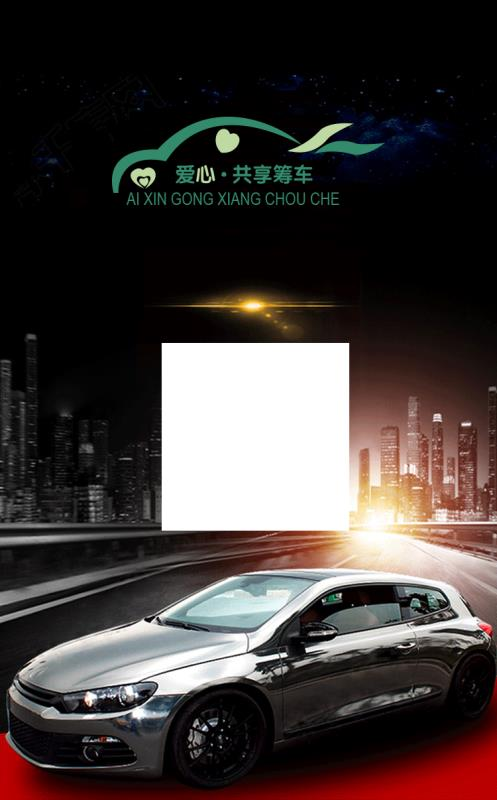
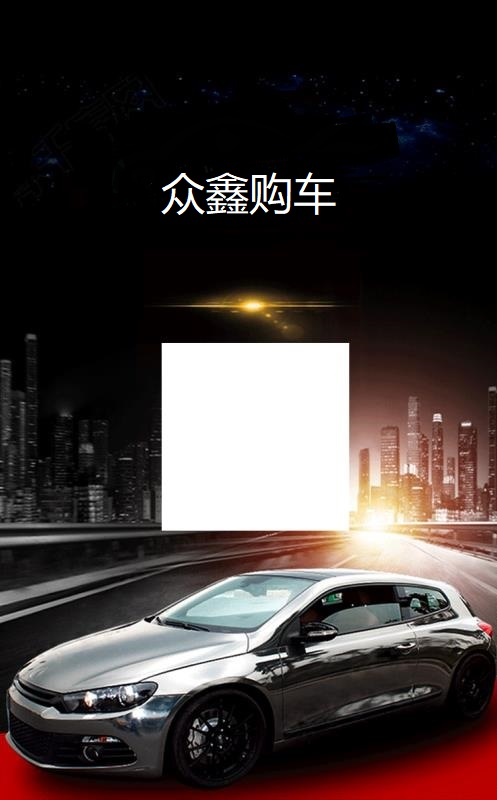
合并前端代码

Changed region(s): [[0.2113, 0.125, 0.8149, 0.2812]]

diff --git a/src/main/resources/file/carCollecting/webapp/js/loginAReg/register.js b/src/main/resources/file/carCollecting/webapp/js/loginAReg/register.js
@@ -50,11 +50,11 @@
 			$(".zc_btn").prop("disabled",false);
 			return false;
 		}
-		/*if(!code){
+		if(!code){
 			alert("请输入验证码");
 			$(".zc_btn").prop("disabled",false);
 			return false;
-		}*/
+		}
 		if(!password){
 			alert("请设置登录密码");
 			$(".zc_btn").prop("disabled",false);
@@ -104,7 +104,7 @@
 						    	 var regData={};
 									regData.phone=mobile1;
 									regData.userName=name;
-									regData.code=code;
+									regData.shortCode=code;
 									regData.parentId=rmobile;
 									regData.pwd=password;
 									console.log(url+"/user");
@@ -122,6 +122,9 @@
 													location.href="login.html?loginName="+mobile1;
 											}else{
 												Errfun1(result1.msg);
+												if(result1.code=='2'){
+													$(".code1").val("")
+												}
 											}
 										}
 									})		
@@ -139,20 +142,19 @@
 				 Errfun3();
 			}
 		})
-		//		注册
-	 if(flag){
-	 	
-	 }
-			
-	
-	
-	
-   //点击获取手机验证码
-	/*$(".sendSMS").on("click",function(){
+  })
+//点击获取手机验证码
+	$(".sendSMS").on("click",function(){
+		console.log(1)
 		$(".sendSMS").prop("disabled",true);
 		var mobile1=$(".mobile1").val();
 		var myreg=/^[1][3,4,5,6,7,8][0-9]{9}$/;
-		if(!myreg.test(mobile1)){
+		console.log(mobile1)
+		if(mobile1==''){
+			alert("请输入手机号");
+			$(".sendSMS").prop("disabled",false);
+			return false;
+		}else if(!myreg.test(mobile1)){
 			alert("请输入正确的手机号");
 			$(".sendSMS").prop("disabled",false);
 			return false;
@@ -160,12 +162,13 @@
 		//验证图形码的有效性
 		$.ajax({
 			type:"post",
-			url:url+"/api/index/sendCheckSMS",
-			data:{"mobile":mobile1},
+			url:url+"/sendSms",
+			data:{"phone":mobile1},
 			dataType:"JSON",
 			success:function(result){
 				$(".sendSMS").prop("disabled",false);
-				if(result.success == true){
+				console.log(result);
+				if(result.msg=='SUCCESS'){
 					var time = 60;
 	                var ttime=setInterval(function () {
 	                    time--;
@@ -183,6 +186,5 @@
 				}
 			}
 		});
-	})*/
-  })
+	})
 })

diff --git a/src/main/resources/file/carCollecting/webapp/html/administratorInfo/memberLineUp.html b/src/main/resources/file/carCollecting/webapp/html/administratorInfo/memberLineUp.html
@@ -4,8 +4,8 @@
   <meta charset="utf-8">
   <meta http-equiv="X-UA-Compatible" content="IE=edge">
   <title>会员排队</title>
-  <meta name="description" content="爱心共享筹车">
-  <meta name="keywords" content="共享筹车">
+  <meta name="description" content="众鑫购车">
+  <meta name="keywords" content="众鑫购车">
   <meta content="width=device-width, initial-scale=1.0, maximum-scale=1.0, user-scalable=0" name="viewport" />
   <meta name="renderer" content="webkit">
   <meta http-equiv="Cache-Control" content="no-siteapp" />
@@ -89,16 +89,6 @@
 		<div class="search_content">
 			 <span>手机号:</span>
 			 <input class="search_text" type="text" name="" id="searchText" value="" />
-			 <br/>
-			 <span>购车类型:</span>
-			 <select class="sel_list" id="selType">
-				<option value="0">请选择分类</option>
-				<option value="1">五进一10万车型</option>
-				<option value="2">五进一20万车型</option>
-				<option value="3">五进一30万车型</option>
-				<option value="4">五进一40万车型</option>
-				<option value="5">五进一50万车型</option>
-			</select>
 			 <button class="search_btn" id="searchBtn">查询</button>
 		</div>
 		<div class="car" style="margin-top: 20px;">
@@ -106,9 +96,9 @@
 				<thead>
 					<tr>
 						<th style="width:20%;">排位</th>
-						<th style="width:26%;">姓名</th>
-						<th style="width:26%;">手机号</th>
-						<th style="width:28%;">操作</th>
+						<th style="width:30%;">姓名</th>
+						<th style="width:30%;">手机号</th>
+						<th style="width:20%;">操作</th>
 					</tr>
 				</thead>
 				

diff --git a/src/main/resources/file/carCollecting/webapp/html/administratorInfo/memberApply.html b/src/main/resources/file/carCollecting/webapp/html/administratorInfo/memberApply.html
@@ -4,8 +4,8 @@
   <meta charset="utf-8">
   <meta http-equiv="X-UA-Compatible" content="IE=edge">
   <title>会员申请</title>
-  <meta name="description" content="爱心共享筹车">
-  <meta name="keywords" content="共享筹车">
+  <meta name="description" content="众鑫购车">
+  <meta name="keywords" content="众鑫购车">
   <meta content="width=device-width, initial-scale=1.0, maximum-scale=1.0, user-scalable=0" name="viewport" />
   <meta name="renderer" content="webkit">
   <meta http-equiv="Cache-Control" content="no-siteapp" />
@@ -144,10 +144,6 @@
 						<td>购车类型</td>
 						<td id="agentbuyType"></td>
 					</tr>
-					<tr style="display:none">
-						<td>购车类型</td>
-						<td id="buyType"></td>
-					</tr>
 					<tr>
 						<td>缴费状态</td>
 						<td id="agentPay"></td>
@@ -187,10 +183,6 @@
 					<tr>
 						<td>购车类型</td>
 						<td id="agentbuyType"></td>
-					</tr>
-					<tr style="display:none">
-						<td>购车类型</td>
-						<td id="buyType"></td>
 					</tr>	
 					<tr>
 						<td>申请时间</td>
@@ -227,10 +219,6 @@
 					<tr>
 						<td>购车类型</td>
 						<td id="agentbuyType"></td>
-					</tr>
-					<tr style="display:none">
-						<td>购车类型</td>
-						<td id="buyType"></td>
 					</tr>	
 					<tr>
 						<td>排名</td>

diff --git a/src/main/resources/file/carCollecting/webapp/html/administratorInfo/my.html b/src/main/resources/file/carCollecting/webapp/html/administratorInfo/my.html
@@ -5,8 +5,8 @@
 		<meta charset="utf-8">
 		<meta http-equiv="X-UA-Compatible" content="IE=edge">
 		<title>我的</title>
-		<meta name="description" content="爱心共享筹车">
-  		<meta name="keywords" content="共享筹车">
+		<meta name="description" content="众鑫购车">
+  		<meta name="keywords" content="众鑫购车">
 		<meta content="width=device-width, initial-scale=1.0, maximum-scale=1.0, user-scalable=0" name="viewport" />
 		<meta name="renderer" content="webkit">
 		<meta http-equiv="Cache-Control" content="no-siteapp" />
@@ -63,7 +63,7 @@
 					<form id="upload3" style="width:100px;height:100px;display:inline-block;">
 						<div style="display:inline-block;width:100%;height: 100%;">
 							<input type="file" name="file" id="file3" style="font-size:0;" class="inputt" onchange="doUpload(3,3,this)">	
-							<img src="" class="img3 imgg" style="width:100%;height:100%" onclick="img_click(3)">
+							<img src="../../img/my/huiyuanh.png" class="img3 imgg" style="width:100%;height:100%" onclick="img_click(3)">
 						</div>
 					</form>
 				</div>

diff --git a/src/main/resources/file/carCollecting/webapp/html/loginAReg/register.html b/src/main/resources/file/carCollecting/webapp/html/loginAReg/register.html
@@ -4,8 +4,8 @@
   <meta charset="utf-8">
   <meta http-equiv="X-UA-Compatible" content="IE=edge">
   <title>注册</title>
-  <meta name="description" content="爱心共享筹车">
-  <meta name="keywords" content="共享筹车">
+  <meta name="description" content="众鑫购车">
+  <meta name="keywords" content="众鑫购车">
   <meta content="width=device-width, initial-scale=1.0, maximum-scale=1.0, user-scalable=0" name="viewport" />
   <meta name="renderer" content="webkit">
   <meta http-equiv="Cache-Control" content="no-siteapp" />
@@ -56,7 +56,7 @@
 				<button type="button" class="exit zc_btn" style="border:none;background-color: #68D352;">注册</button>	
 			</div>
 			
-			<span style="color:#FFFFFF;">点击注册代表您同意<span style="color:#68D352;;">《爱心共享筹车相关协议》</span></span>
+			<span style="color:#FFFFFF;">点击注册代表您同意<span style="color:#68D352;;">《众鑫购车相关协议》</span></span>
 		</div>
 		
 		

diff --git a/src/main/resources/file/carCollecting/webapp/html/home/home.html b/src/main/resources/file/carCollecting/webapp/html/home/home.html
@@ -5,12 +5,12 @@
 		<meta charset="utf-8">
 		<meta http-equiv="X-UA-Compatible" content="IE=edge">
 		<title>首页</title>
-  <meta name="description" content="爱心共享筹车">
-  <meta name="keywords" content="共享筹车">
+  <meta name="description" content="众鑫购车">
+  <meta name="keywords" content="众鑫购车">
 		<meta content="width=device-width, initial-scale=1.0, maximum-scale=1.0, user-scalable=0" name="viewport" />
 		<meta name="renderer" content="webkit">
 		<meta http-equiv="Cache-Control" content="no-siteapp" />
-		<link rel="icon" type="image/png" href="assets/i/favicon.png">
+		<!--<link rel="icon" type="image/png" href="assets/i/favicon.png">-->
 		<link rel="stylesheet" href="../../css/public/amazeui.min.css">
 		<link rel="stylesheet" href="../../css/public/base.css">
 		<link rel="stylesheet" href="../../css/loginAReg/login.css">

diff --git a/src/main/resources/file/carCollecting/webapp/html/loginAReg/login.html b/src/main/resources/file/carCollecting/webapp/html/loginAReg/login.html
@@ -3,9 +3,9 @@
 <head>
   <meta charset="utf-8">
   <meta http-equiv="X-UA-Compatible" content="IE=edge">
-  <title>爱心筹车登录</title>
-  <meta name="description" content="爱心共享筹车">
-  <meta name="keywords" content="共享筹车">
+  <title>众鑫购车登录</title>
+  <meta name="description" content="众鑫购车">
+  <meta name="keywords" content="众鑫购车">
   <!--<meta content="width=device-width, initial-scale=1.0, maximum-scale=1.0, user-scalable=0;" name="viewport" />-->
   <meta name="viewport" content="width=device-width,initial-scale=1.0, minimum-scale=1.0, maximum-scale=1.0, user-scalable=no"/>
   <meta name="renderer" content="webkit">

diff --git a/src/main/resources/file/carCollecting/webapp/js/my/my_code.js b/src/main/resources/file/carCollecting/webapp/js/my/my_code.js
@@ -4,7 +4,9 @@ $(function(){
 	var userInfo = JSON.parse(sessionStorage.getItem('userInfo'));
 	var data={};
 	//data.registerUrl = url+"/carCollecting/webapp/html/loginAReg/register.html";
-	data.registerUrl = "http://127.0.0.1:8080/carCollecting/webapp/html/loginAReg/register.html";
+	//data.registerUrl = "http://192.168.31.254:8020/carCollecting/webapp/html/loginAReg/register.html";
+	//data.registerUrl = "http://47.105.71.191:80/carCollecting/webapp/html/loginAReg/register.html";
+	data.registerUrl = "http://www.zxgouche.cn/carCollecting/webapp/html/loginAReg/register.html";
 	data.userId =userInfo.id;
 	data.phone =userInfo.loginName;
 	console.log(data);

diff --git a/src/main/resources/file/carCollecting/webapp/js/public/new_file.js b/src/main/resources/file/carCollecting/webapp/js/public/new_file.js
@@ -3,9 +3,11 @@
 	var url="http://47.105.71.191:8080";
 	//var url="http://47.105.71.191:8081";
 	//图片路径
-	var img_url="http://47.105.71.191:8081";
+	//var img_url="http://47.105.71.191:8081";
+	var img_url="http://47.105.71.191:80";
     //	登陆地址地址
-	var loginUrl = img_url+"carCollecting/webapp/html/loginAReg/login.html";
+	//var loginUrl = url+"/carCollecting/webapp/html/loginAReg/login.html";
+	var loginUrl = "http://www.zxgouche.cn/carCollecting/webapp/html/loginAReg/login.html";
 	
 	var userInfo = JSON.parse(sessionStorage.getItem('userInfo'));
 	if(userInfo == undefined||userInfo == ""||userInfo == null){

diff --git a/src/main/resources/file/carCollecting/webapp/html/administratorInfo/MyCode.html b/src/main/resources/file/carCollecting/webapp/html/administratorInfo/MyCode.html
@@ -4,8 +4,8 @@
   <meta charset="utf-8">
   <meta http-equiv="X-UA-Compatible" content="IE=edge">
   <title>我的二维码</title>
-   <meta name="description" content="爱心共享筹车">
-  <meta name="keywords" content="共享筹车">
+   <meta name="description" content="众鑫购车">
+  <meta name="keywords" content="众鑫购车">
   <!--<meta content="width=device-width, initial-scale=1.0, maximum-scale=1.0, user-scalable=0;" name="viewport" />-->
   <meta name="viewport" content="width=device-width,initial-scale=1.0, minimum-scale=1.0, maximum-scale=1.0, user-scalable=no"/>
   <meta name="renderer" content="webkit">

diff --git a/src/main/resources/file/carCollecting/webapp/html/agentInfo/MyCode.html b/src/main/resources/file/carCollecting/webapp/html/agentInfo/MyCode.html
@@ -4,8 +4,8 @@
   <meta charset="utf-8">
   <meta http-equiv="X-UA-Compatible" content="IE=edge">
   <title>我的二维码</title>
-   <meta name="description" content="爱心共享筹车">
-  <meta name="keywords" content="共享筹车">
+   <meta name="description" content="众鑫购车">
+  <meta name="keywords" content="众鑫购车">
   <!--<meta content="width=device-width, initial-scale=1.0, maximum-scale=1.0, user-scalable=0;" name="viewport" />-->
   <meta name="viewport" content="width=device-width,initial-scale=1.0, minimum-scale=1.0, maximum-scale=1.0, user-scalable=no"/>
   <meta name="renderer" content="webkit">

diff --git a/src/main/resources/file/carCollecting/webapp/html/my/MyCode.html b/src/main/resources/file/carCollecting/webapp/html/my/MyCode.html
@@ -4,8 +4,8 @@
   <meta charset="utf-8">
   <meta http-equiv="X-UA-Compatible" content="IE=edge">
   <title>我的二维码</title>
-   <meta name="description" content="爱心共享筹车">
-  <meta name="keywords" content="共享筹车">
+   <meta name="description" content="众鑫购车">
+  <meta name="keywords" content="众鑫购车">
   <!--<meta content="width=device-width, initial-scale=1.0, maximum-scale=1.0, user-scalable=0;" name="viewport" />-->
   <meta name="viewport" content="width=device-width,initial-scale=1.0, minimum-scale=1.0, maximum-scale=1.0, user-scalable=no"/>
   <meta name="renderer" content="webkit">
